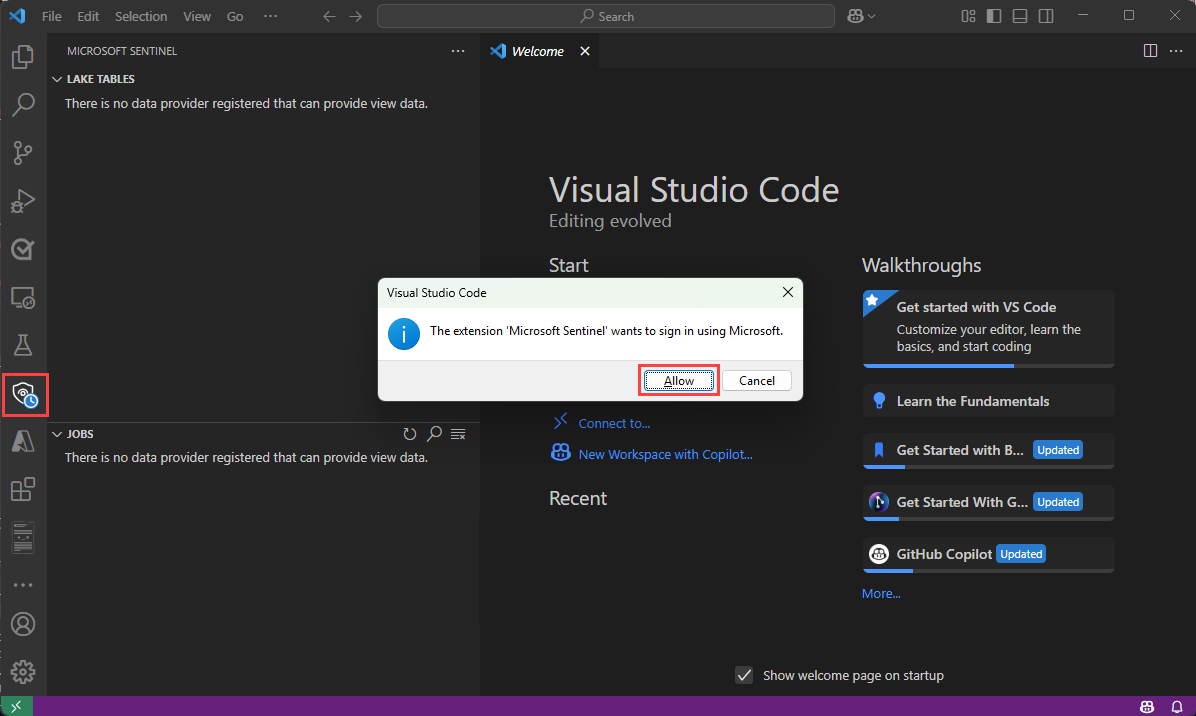
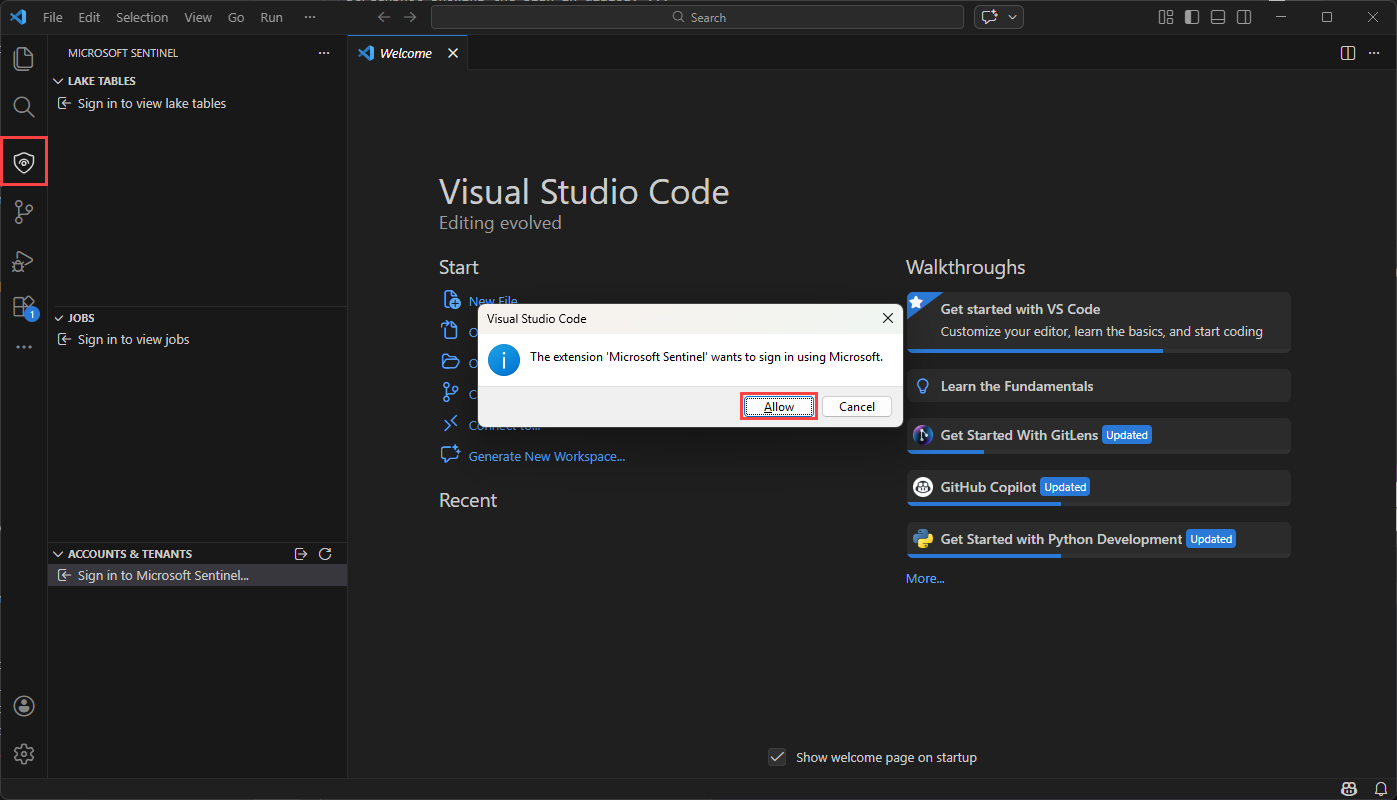
mulitple tenants

diff --git a/articles/sentinel/datalake/notebooks.md b/articles/sentinel/datalake/notebooks.md
@@ -77,6 +77,15 @@ After installing the Microsoft Sentinel extension, you can start exploring data 
  
    :::image type="content" source="./media/notebooks/select-account.png" lightbox="./media/notebooks/select-account.png" alt-text="A screenshot showing the account selection list at the top of the page."::: 
 
+    If you have multiple accounts associated with your login you can switch between accounts without having to authenticate again by selecting the account name at the bottom left of the Visual Studio Code window.
+
+   > [!NOTE] 
+   > Switching accounts disconnect any pyspark sessions that are currently active. 
+
+
+    :::image type="content" source="./media/notebooks/account-picker.png" lightbox="./media/notebooks/account-picker.png" alt-text="A screenshot showing how to switch accounts in Visual Studio Code.":::
+  
+
 ### View data lake tables and jobs
 
 Once you sign in, the Sentinel extension displays a list of **Lake tables** and **Jobs** in the left pane. The tables are grouped by the database and category. Select a table to see the column definitions.
